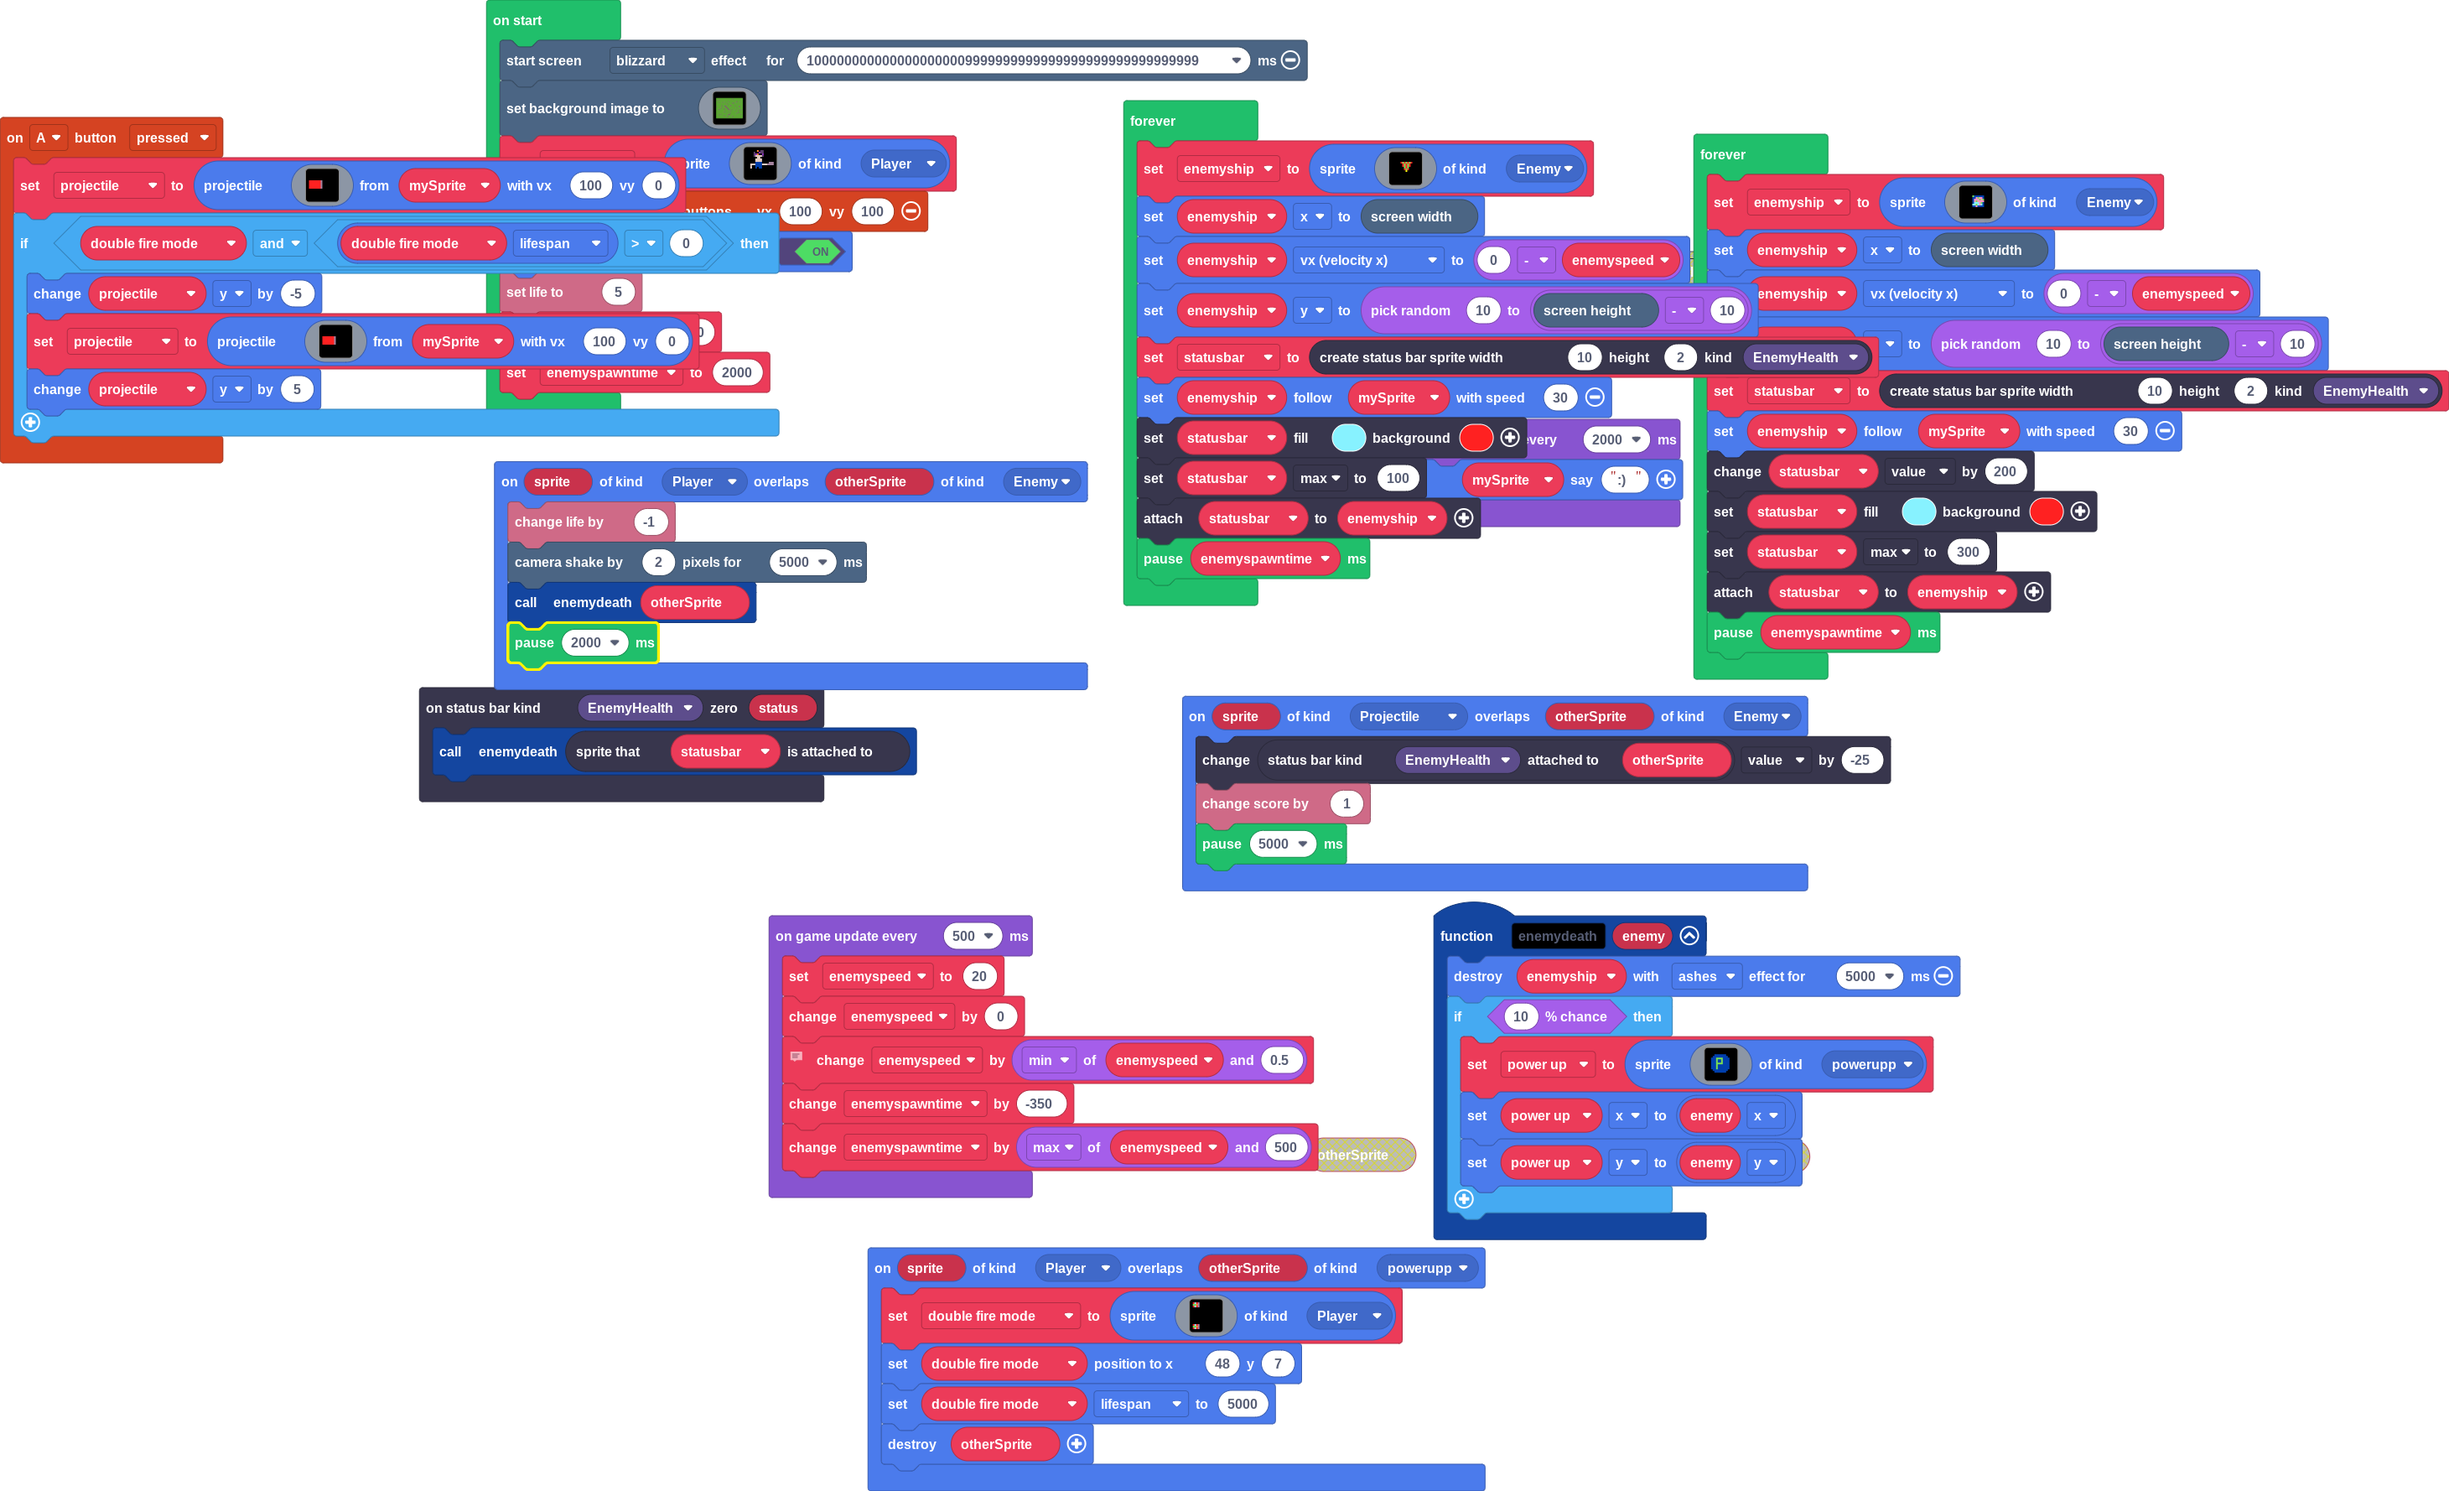
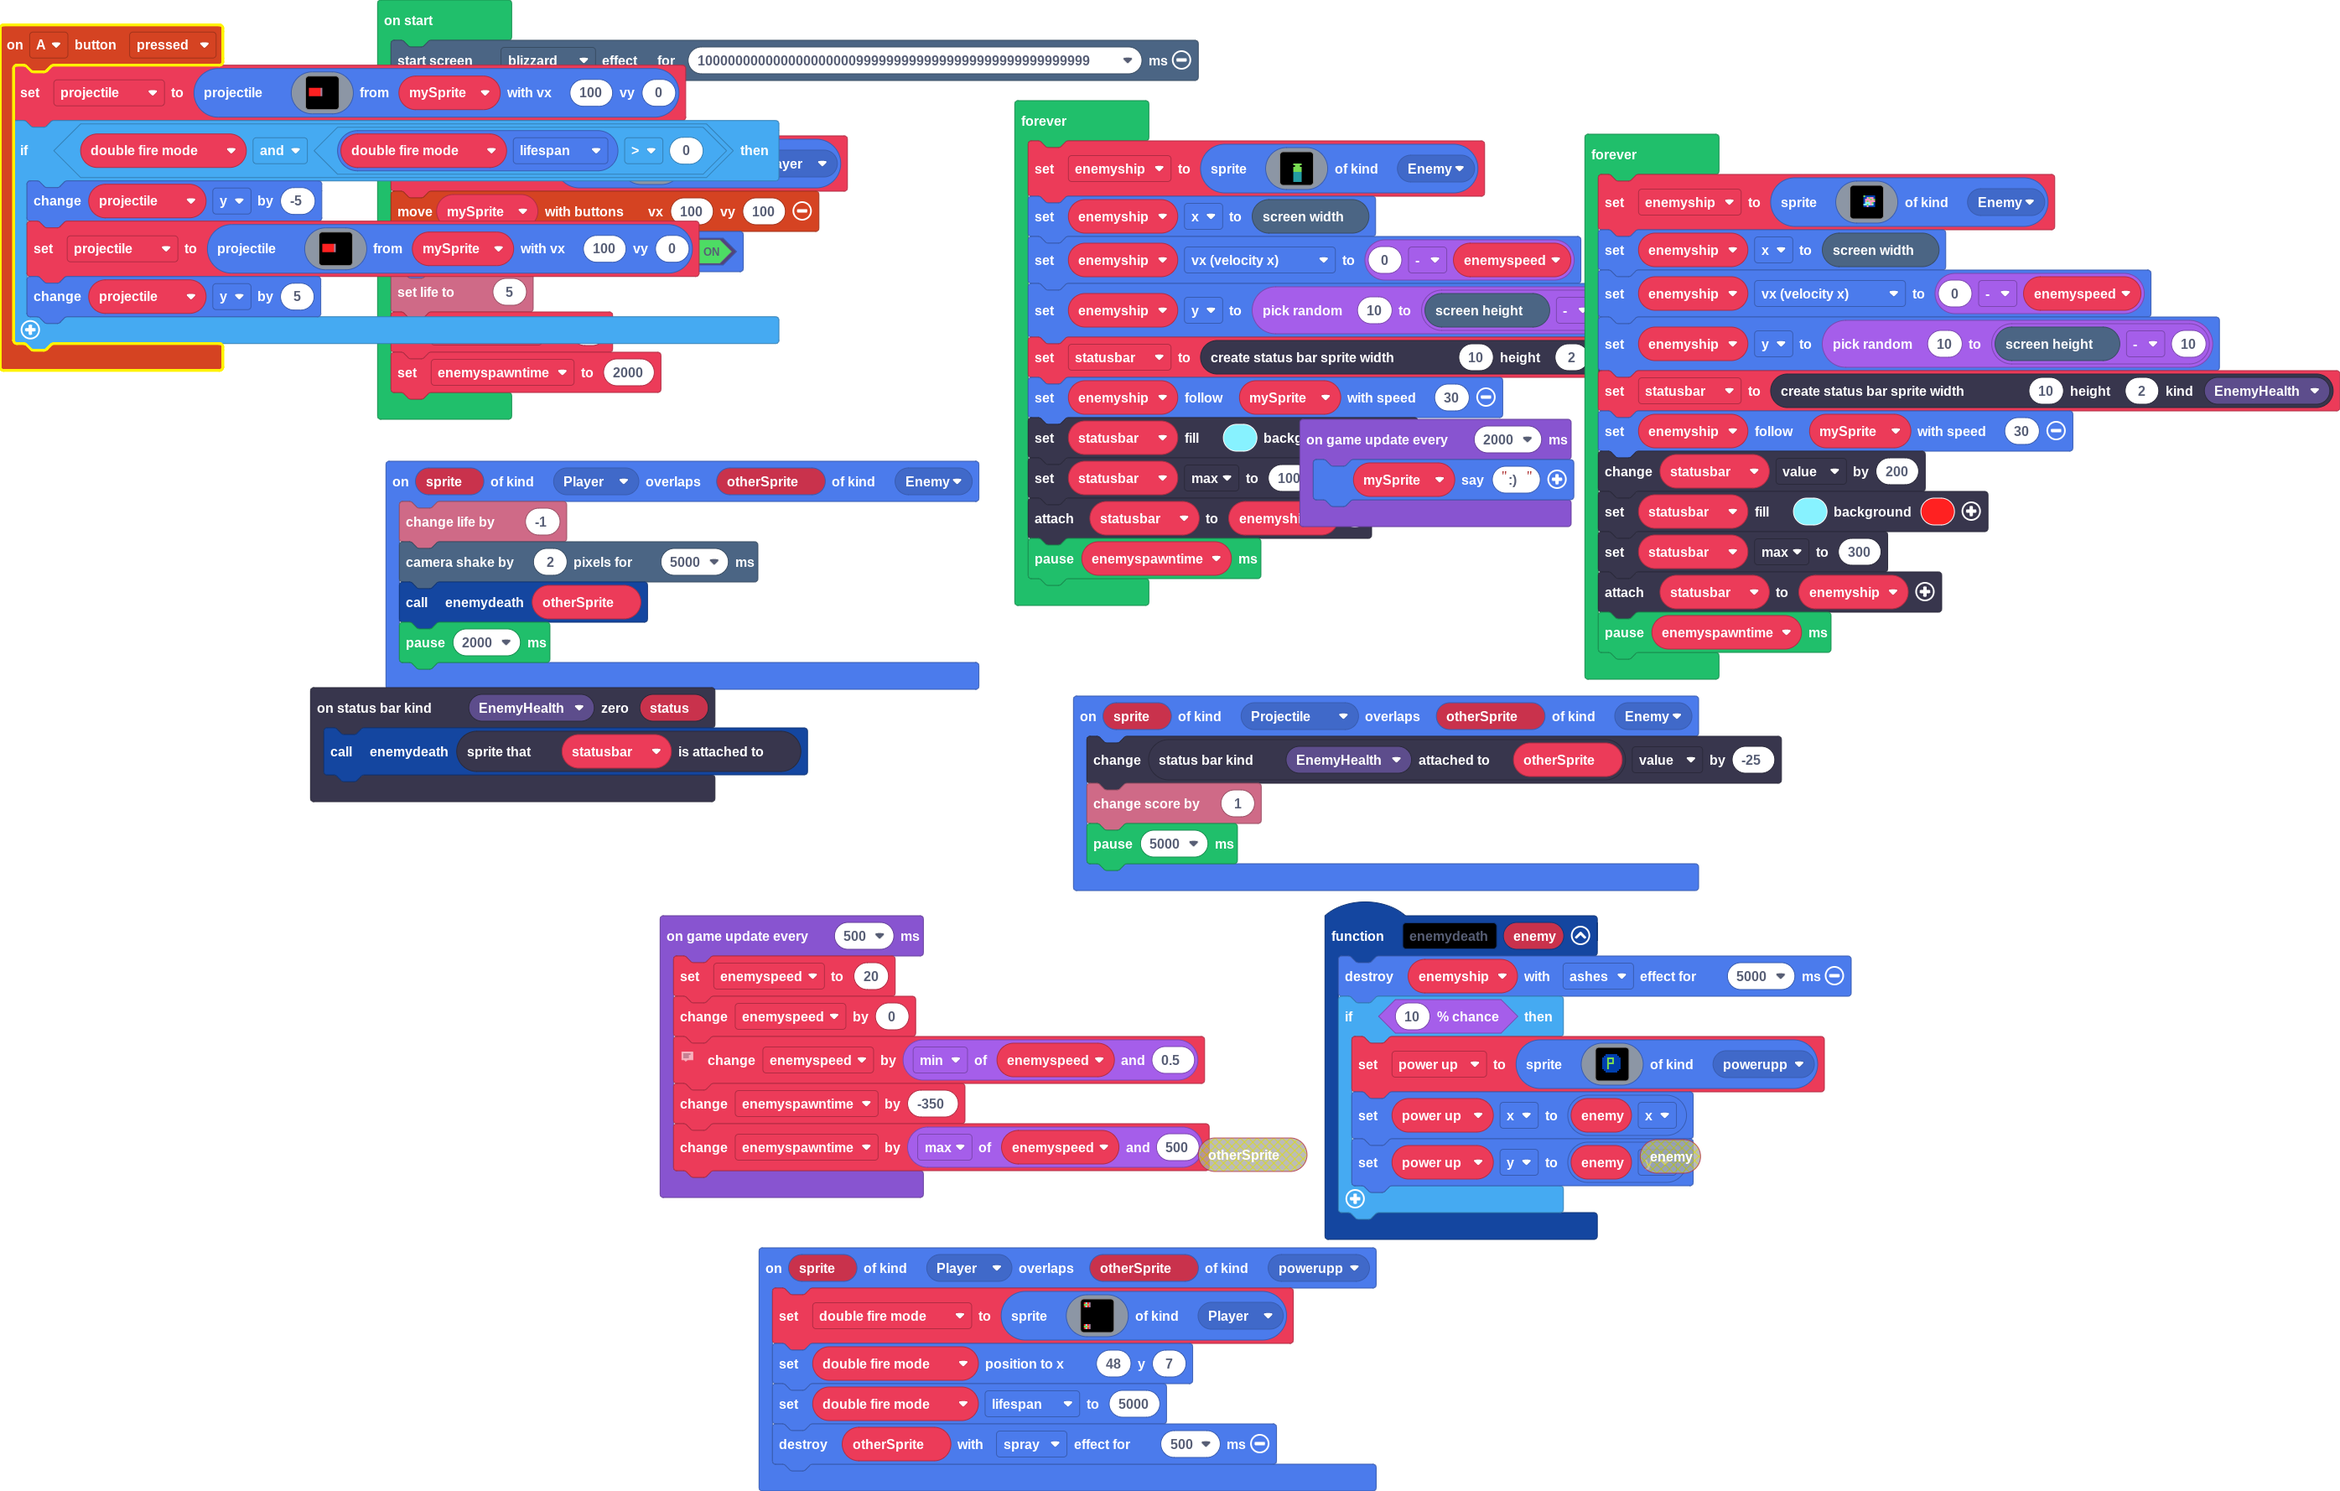
Update pxt.json, main.blocks, main.ts, images.g.jres, images.g.ts

diff --git a/main.ts b/main.ts
@@ -24,7 +24,7 @@ sprites.onOverlap(SpriteKind.Player, SpriteKind.powerupp, function (sprite, othe
         `, SpriteKind.Player)
     double_fire_mode.setPosition(48, 7)
     double_fire_mode.lifespan = 5000
-    otherSprite.destroy()
+    otherSprite.destroy(effects.spray, 500)
 })
 controller.A.onEvent(ControllerButtonEvent.Pressed, function () {
     projectile = sprites.createProjectileFromSprite(img`
@@ -268,18 +268,18 @@ forever(function () {
         . . . . . . . . . . . . . . . . 
         . . . . . . . . . . . . . . . . 
         . . . . . . . . . . . . . . . . 
-        . . . . . 2 7 2 7 2 7 2 . . . . 
-        . . . . . . 2 7 2 7 2 . . . . . 
-        . . . . . . 2 7 2 7 2 . . . . . 
-        . . . . . . . 7 2 7 . . . . . . 
-        . . . . . . . 2 7 2 . . . . . . 
-        . . . . . . . . 5 . . . . . . . 
         . . . . . . . . . . . . . . . . 
-        . . . . . . . . . . . . . . . . 
-        . . . . . . . . . . . . . . . . 
-        . . . . . . . . . . . . . . . . 
-        . . . . . . . . . . . . . . . . 
-        . . . . . . . . . . . . . . . . 
+        . . . . . . 7 7 7 7 7 . . . . . 
+        . . . . . . f 7 7 7 f . . . . . 
+        . . . . . . 7 7 7 7 7 . . . . . 
+        . . . . . . 7 7 7 7 7 . . . . . 
+        . . . . . . 7 7 7 7 7 . . . . . 
+        . . . . . . 6 6 6 6 6 . . . . . 
+        . . . . . . 6 6 6 6 6 . . . . . 
+        . . . . . . 6 6 6 6 6 . . . . . 
+        . . . . . . 6 6 6 6 6 . . . . . 
+        . . . . . . 6 6 6 6 6 . . . . . 
+        . . . . . . 6 6 6 6 6 . . . . . 
         `, SpriteKind.Enemy)
     enemyship.x = scene.screenWidth()
     enemyship.vx = 0 - enemyspeed

diff --git a/images.g.ts b/images.g.ts
@@ -1,0 +1,53 @@
+// Auto-generated code. Do not edit.
+namespace myImages {
+
+    helpers._registerFactory("image", function(name: string) {
+        switch(helpers.stringTrim(name)) {
+            case "image1":
+            case "myImage":return img`
+................................
+................................
+................................
+................................
+................................
+................................
+........fffffffffff.44..........
+.......f...........f..ff........
+......fffffffffffffff.88f.......
+.....ffffffffffff5ffff.8ff......
+fffffffffffffffff555ff.78f......
+.f.f.ffffffffffff5f5ff.77f......
+fffffffffffffffff555ff..8f......
+.....fffffffffff11111f.88f......
+......ffffff....111111.8f.......
+......ffffff....111111.7f.......
+.......ffffff...11111177f.......
+........ffffff........8f........
+.........fffffffff...88f........
+..........ffffff.ffffff.........
+...........fffff................
+............fffff...............
+.............fffff..............
+..............fffff.............
+..............fffff.............
+..............fffff.............
+.............f.....f............
+...........fff.....fff..........
+.........ff...........ff........
+.........fffffffffffffff........
+................................
+................................
+`;
+        }
+        return null;
+    })
+
+    helpers._registerFactory("animation", function(name: string) {
+        switch(helpers.stringTrim(name)) {
+
+        }
+        return null;
+    })
+
+}
+// Auto-generated code. Do not edit.
